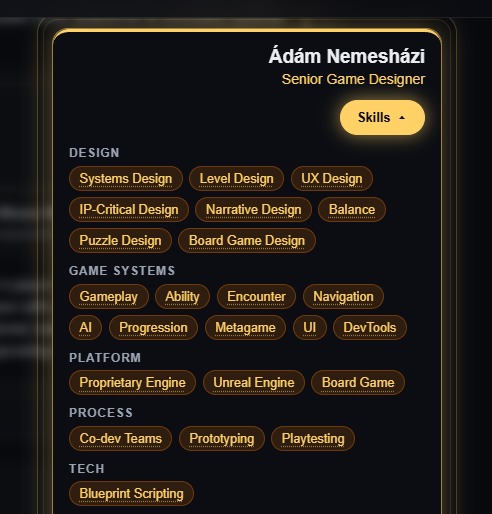
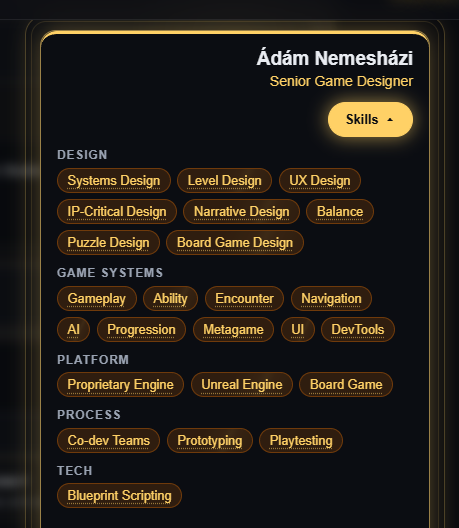
Image, setting updates

diff --git a/tools/website-launch-image/style.css b/tools/website-launch-image/style.css
@@ -45,14 +45,14 @@
 /* ===================================================================== */
 .panel--main {
 	--x: 100px;  --y: 40px;  --w: 850px;
-	--rot-x: -8deg; --rot-y: 10deg;  --rot-z: 1.5deg;  --z: 1;
+	--rot-x: -6deg; --rot-y: 8deg;  --rot-z: 1deg;  --z: 1;
 }
 .panel--skills {
-	--x: 30px;   --y: 175px; --w: 300px;
+	--x: 50px;   --y: 200px; --w: 300px;
 	--rot-x: 0deg; --rot-y: 34deg;   --rot-z: 0.5deg; --z: 2;
 }
 .panel--punks {
-	--x: 600px;  --y: 190px; --w: 550px;
+	--x: 610px;  --y: 180px; --w: 520px;
 	--rot-x: 0deg; --rot-y: -30deg;  --rot-z: .5deg;   --z: 3;
 }
 

diff --git a/tools/website-launch-image/index.html b/tools/website-launch-image/index.html
@@ -13,7 +13,7 @@
 		<div class="bg"></div>
 
 		<figure class="panel panel--skills">
-			<img src="assets/mitko-skills.png" alt="Skills panel">
+			<img src="assets/adam-skills.png" alt="Skills panel">
 		</figure>
 
 		<figure class="panel panel--main">
@@ -21,7 +21,7 @@
 		</figure>
 
 		<figure class="panel panel--punks">
-			<img src="assets/space-punks.png" alt="Space Punks project detail">
+			<img src="assets/mandragora.png" alt="Space Punks project detail">
 		</figure>
 	</main>
 
